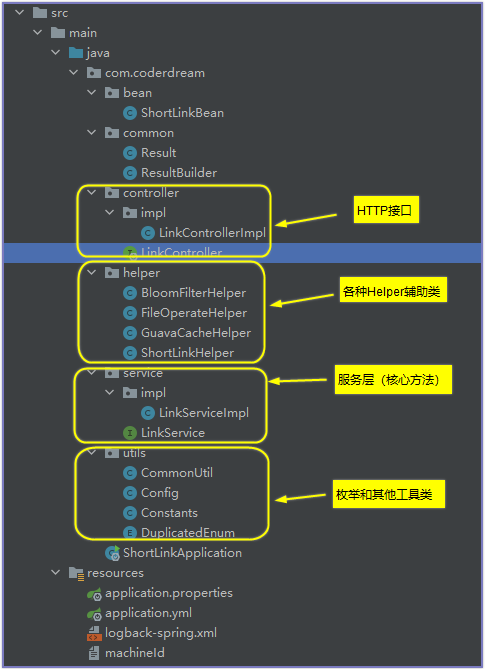
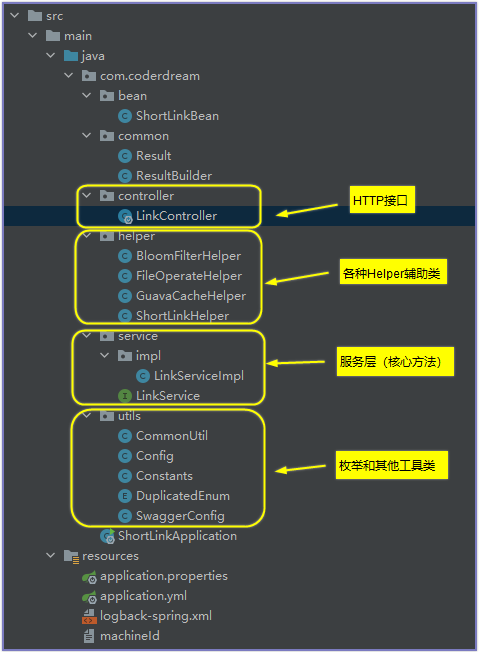
版本1.6，支持Swagger

Changed region(s): [[0.0, 0.0, 0.9937, 1.0]]

diff --git a/short-link/aliyun-spring-boot-web/demo/src/test/java/com/example/demo/guava/LoadingCacheTest.java b/short-link/aliyun-spring-boot-web/demo/src/test/java/com/example/demo/guava/LoadingCacheTest.java
@@ -11,6 +11,17 @@ import java.util.concurrent.TimeUnit;
  * @see <a href="http://www.roadjava.com">乐之者java</a>
  */
 public class LoadingCacheTest {
+    @Test
+    public void testBloomFilterError2() throws Exception {
+        int x = 1;
+        int y = 1;
+        int z = 0;
+        while (x < 25)
+        z = x;
+        x = x+ y;
+        y = z;
+        System.out.println(x);
+    }
     /**
      * 单独使用guava的cache，guava的cache分为两种:
      * 第一种: Cache<---LoadingCache<---com.google.common.cache.LocalCache.LocalLoadingCache

diff --git a/short-link/short-link-coderdream/src/test/java/com/coderdream/service/LinkServiceTest.java b/short-link/short-link-coderdream/src/test/java/com/coderdream/service/LinkServiceTest.java
@@ -81,6 +81,23 @@ public class LinkServiceTest {
      * @throws Exception
      */
     @Test
+    public void testBloomFilterError2() throws Exception {
+        int x = 1;
+        int y = 1;
+        int z = 0;
+        while (x < 25)
+            z = x;
+        x = x+ y;
+        y = z;
+        System.out.println(x);
+    }
+
+    /**
+     * 测试布隆过滤器误判场景
+     *
+     * @throws Exception
+     */
+    @Test
     public void testBloomFilterError() throws Exception {
         /**
          * 布隆过滤器

diff --git a/short-link/short-link-coderdream/README.md b/short-link/short-link-coderdream/README.md
@@ -39,19 +39,16 @@
 5. 生成的短链接分别存储在布隆过滤器和**Guava Cache**中，供后续插入及查询；
 6. **对于最后生成的短链接，机器编号占X位，MurmurHash+62进制生成的字符串占Y位（Y≤6），总共7位（X+Y≤7），满足不超过8位的需求；（后期可增加发号器，62进制，占用1位）**
 
-
-
 ## 3、设计思想及具体实现
 
 ### 3.1 详细设计
-
-
 
 <div align="center">
 	<img src="images\02.DesignDiagram.png" />
 	</br>
 	<span>图-2 详细设计图</span>
 </div>
+
 **详细设计说明**
 
 1. 调用方传入长链接字符串后，短域名服务先MurmurHash生成10进制字符串，然后转换成62进制短链接，最后加上机器码作为前缀，生成最终的短链接；
@@ -144,3 +141,27 @@ public String getShortLink(String longLink) {
 ## 4、功能测试
 
 ### 4.1 项目目录结构
+
+<div align="center">
+	<img src="images\03.Content.png" />
+	</br>
+	<span>图-3 目录结构图</span>
+</div>
+
+
+### 4.2 单元测试结果
+
+<div align="center">
+	<img src="images\04.JaCoCoReport.png" />
+	</br>
+	<span>图-4 单元测试结果</span>
+</div>
+
+
+### 4.3 Swagger
+
+<div align="center">
+	<img src="images\05.Swagger.png" />
+	</br>
+	<span> 图-5 Swagger </span>
+</div>
